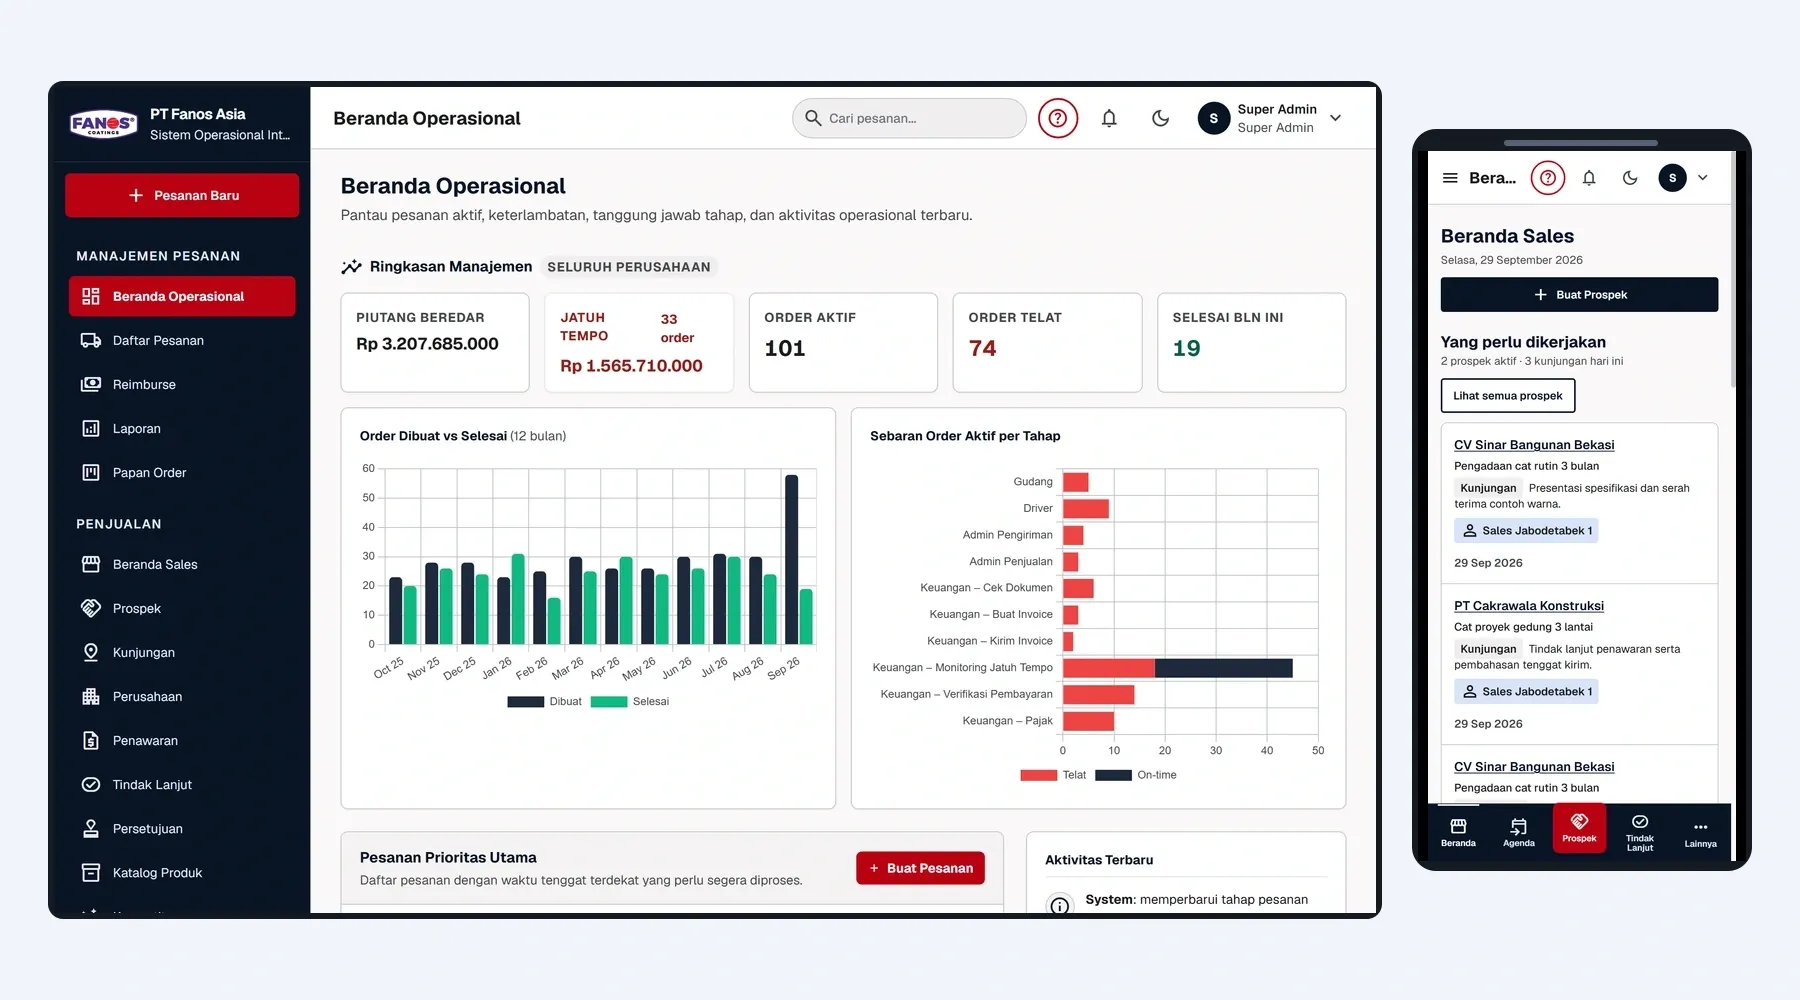
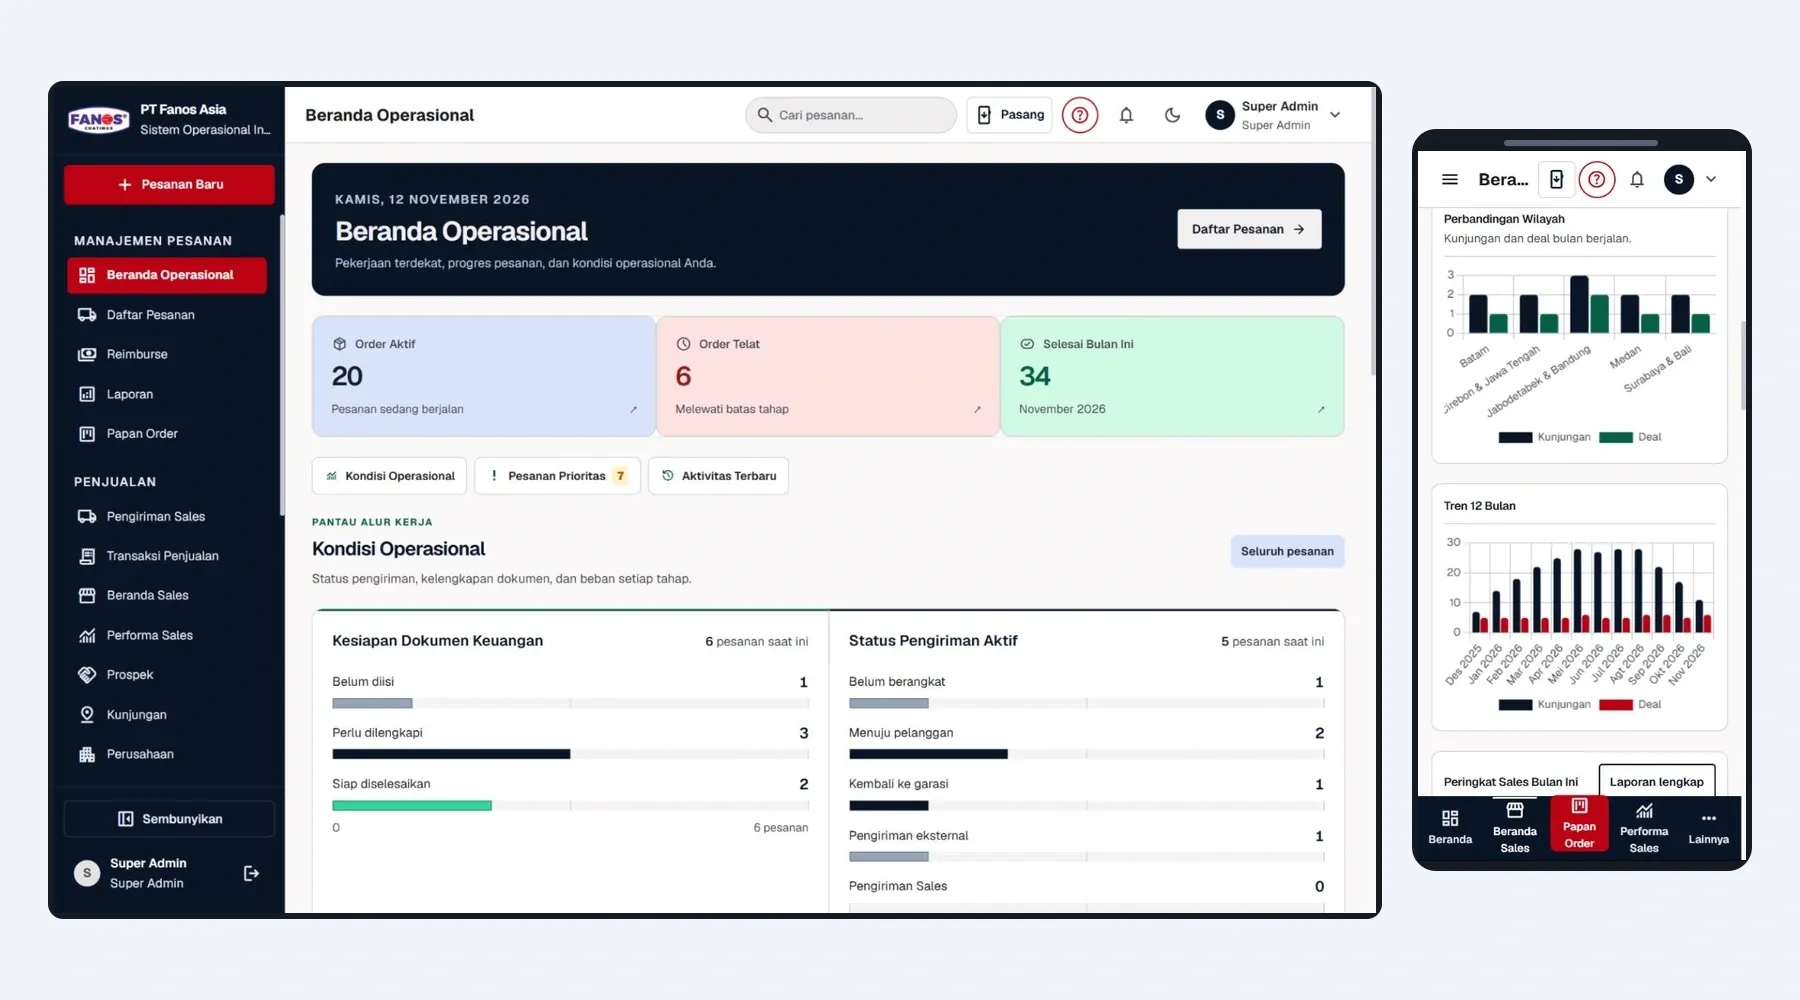
feat(work): recapture Order & Field Sales screens from isolated demo data
All order-sales images were recaptured from local checkout 72307ba with
simulation data in a separate database: Beranda Operasional on desktop,
regional and 12-month Sales charts on mobile, an external delivery in
the five-stage workflow, the strategic report and the Sales funnel.
Refreshes cards, Home/service previews and the OG image, drops the
now-unneeded redaction boxes, and aligns the case-study copy with the
five-stage workflow.

diff --git a/src/content/portfolio-features.ts b/src/content/portfolio-features.ts
@@ -11,18 +11,18 @@ export const workFeatures: Record<string, WorkFeature[]> = {
   "order-sales": [
     {
       image: image("order-sales", "order-detail"),
-      en: { title: "One order, ten accountable steps", body: "A sales order moves from the warehouse through delivery and administration to finance. Its detail page keeps the active stage, assigned person, deadline, and transition history together, so the next handoff is visible to everyone with access.", caption: "Order detail and its stage history in the demo environment." },
-      id_: { title: "Satu pesanan, sepuluh tahap yang jelas", body: "Pesanan bergerak dari gudang, pengiriman, dan administrasi hingga keuangan. Halaman detail menyatukan tahap aktif, penanggung jawab, tenggat, serta riwayat perpindahan sehingga tim yang berwenang tahu pekerjaan berikutnya.", caption: "Detail pesanan dan riwayat tahap pada lingkungan demo." },
+      en: { title: "One order, five accountable stages", body: "The workflow follows an order through warehouse, driver, delivery administration, sales administration, and finance. The detail page keeps the active stage, assigned person, deadline, and handoff history together.", caption: "Order detail and its stage history in the demo environment." },
+      id_: { title: "Satu pesanan, lima tahap yang jelas", body: "Pesanan ditangani gudang, driver, admin pengiriman, admin sales, dan keuangan. Halaman detail menyatukan tahap aktif, penanggung jawab, tenggat, serta riwayat serah terima.", caption: "Detail pesanan dan riwayat tahap pada lingkungan demo." },
     },
     {
       image: image("order-sales", "receivables"),
-      en: { title: "Deadlines and payments stay in view", body: "The operational dashboard and reports surface overdue stages, due dates, outstanding balances, and partial payments. Finance can follow a payment through verification before the order advances to tax processing.", caption: "Operational report with deadlines and receivables from demo records." },
-      id_: { title: "Tenggat dan pembayaran tetap terlihat", body: "Dashboard dan laporan menandai tahap yang terlambat, tanggal jatuh tempo, piutang, serta pembayaran sebagian. Keuangan dapat memeriksa pembayaran sampai terverifikasi sebelum pesanan berlanjut ke tahap pajak.", caption: "Laporan tenggat dan piutang dari data contoh." },
+      en: { title: "See where orders slow down", body: "The strategic report compares orders created and completed over 12 months. The team can check delivery status, finance document readiness, and where active orders are overdue.", caption: "Strategic report with a 12-month order chart from demo records." },
+      id_: { title: "Lihat di mana pesanan tersendat", body: "Laporan strategis membandingkan pesanan masuk dan selesai selama 12 bulan. Tim bisa memeriksa status pengiriman, kesiapan dokumen keuangan, dan tahap yang terlambat.", caption: "Laporan strategis dengan grafik pesanan 12 bulan dari data demo." },
     },
     {
       image: image("order-sales", "sales-mobile"),
-      en: { title: "Field sales has its own working view", body: "The sales area covers visits, prospects, quotations, and follow-up tasks. Its mobile view gives the team a practical way to check what needs attention while working outside the office.", caption: "Field sales activity viewed at phone width." },
-      id_: { title: "Sales lapangan punya ruang kerjanya sendiri", body: "Modul sales memuat kunjungan, prospek, penawaran, dan tindak lanjut. Tampilan ponselnya membantu tim memeriksa pekerjaan yang perlu ditangani saat berada di luar kantor.", caption: "Aktivitas sales lapangan pada lebar layar ponsel." },
+      en: { title: "Sales performance is visible on a phone", body: "The management dashboard compares visits and deals across regions. The prospect funnel shows how many opportunities and how much potential value sit at each stage, from a first visit through negotiation.", caption: "Sales KPIs and the prospect funnel on a phone, using demo records." },
+      id_: { title: "Kinerja sales bisa dipantau dari ponsel", body: "Beranda Sales untuk manajemen membandingkan kunjungan dan deal antarwilayah. Corong prospek menunjukkan jumlah dan nilai peluang pada tiap tahap, dari kunjungan awal sampai negosiasi.", caption: "KPI sales dan corong prospek di ponsel, memakai data demo." },
     },
   ],
   "industrial-coatings": [

diff --git a/src/content/portfolio.ts b/src/content/portfolio.ts
@@ -40,7 +40,7 @@ export const portfolio: WorkProject[] = [
       title: "Order & Field Sales Workflow", subtitle: "Orders change hands. Their status should stay visible.",
       overview: "Orders change hands. Their status should stay visible. This system brings stages, ownership, deadlines, payments, and field sales activity into view.",
       challenge: "A manufacturing order passes through warehouse, delivery, administration, and finance. The team needs to see where each order stands and who owns the next step.",
-      approach: "A ten-stage order trail, operational dashboard, overdue signals, and field sales views connect office and on-site work in one application.",
+      approach: "A five-stage order trail, delivery and finance records, and sales performance dashboards connect office and field work in one application.",
       role: "The Katalhys founder worked on the interface, application development, AI-assisted sales follow-up, and deployment.",
       ai: {
         title: "AI helps the team decide what to follow up",
@@ -53,7 +53,7 @@ export const portfolio: WorkProject[] = [
       title: "Alur Pesanan & Sales Lapangan", subtitle: "Pesanan berpindah tangan; informasinya tidak boleh ikut hilang.",
       overview: "Pesanan berpindah tangan; informasinya tidak boleh ikut hilang. Sistem ini menunjukkan tahap, penanggung jawab, tenggat, pembayaran, dan aktivitas sales lapangan.",
       challenge: "Pesanan manufaktur melewati gudang, pengiriman, administrasi, dan keuangan. Tim perlu tahu posisi setiap pesanan dan siapa yang menangani tahap berikutnya.",
-      approach: "Jejak sepuluh tahap, dashboard operasional, penanda keterlambatan, dan layar sales lapangan menghubungkan pekerjaan kantor dan lapangan.",
+      approach: "Jejak lima tahap, catatan pengiriman dan keuangan, serta dashboard kinerja sales menghubungkan pekerjaan kantor dan lapangan.",
       role: "Pendiri Katalhys mengerjakan antarmuka, pengembangan aplikasi, integrasi AI untuk tindak lanjut sales, dan deployment.",
       ai: {
         title: "AI membantu menentukan tindak lanjut",

diff --git a/src/content/services.ts b/src/content/services.ts
@@ -56,8 +56,8 @@ const media = {
       src: "work/order-sales/order-detail.webp",
       kind: "proof",
       alt: {
-        en: "Order detail with ten stages and transition history",
-        id: "Detail pesanan dengan sepuluh tahap dan riwayat perpindahan",
+        en: "Order detail with five stages and transition history",
+        id: "Detail pesanan dengan lima tahap dan riwayat perpindahan",
       },
       caption: {
         en: "Order detail connects warehouse, delivery, administration, and finance.",
